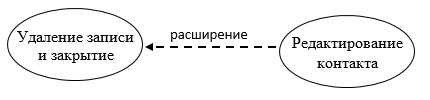
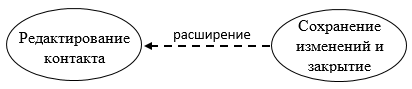
Create flow of events

Changed region(s): [[0.0, 0.0674, 0.9903, 0.9213], [0.7282, 0.6067, 0.9029, 0.6966], [0.0583, 0.7416, 0.2621, 0.8315]]

diff --git a/Documents/System project/UseCase/Flow of Events.md b/Documents/System project/UseCase/Flow of Events.md
@@ -1,0 +1,287 @@
+# Поток событий
+---
+
+# Содержание
+1 [Актёры](#actors)  
+2 [Варианты использования](#use_case)  
+2.1 [Добавление контакта](#add_kontakt)  
+2.2 [Заполнение данных в формы](#filling_forms)  
+2.3 [Сохранение и закрытие](#Save_and_close)  
+2.4 [Отмена и закрытие](#Cancellation_and_closure)  
+2.5 [Редактирование контакта](#Editing_a_contact)</br>
+2.6 [Редактирование данных в формах](#Editing_data_in_forms)  
+2.7 [Сохранение изменений и закрытие](#Save_changes_and_close)  
+2.8 [Отмена изменений и закрытие](#Cancel_changes_and_close)  
+2.9 [Удаление записи и закрытие](#Delete_entry_and_close)  
+2.10 [Открытие отчёта](#Opening_a_report)  
+2.11 [Осуществление звонка](#Making_a_call)</br>
+2.12 [Поиск, сортировка и фильтрация](#Search,_sort_and_filter)  
+2.13 [Использование поисковой строки](#Using_the_search_bar)  
+2.14 [Сброс поиска](#Reset_search)  
+2.15 [Критерий поиска по полям БД](#Search_criterion_for_database_fields)  
+2.16 [Критерий поиска по совпадению](#Matching_Criteria)  
+2.17 [Сортировка по алфавиту](#Sort_alphabetically)</br>
+2.18 [Переход по найденным контактам](#Navigation_by_found_contacts)        
+
+<a name="actors"/>
+
+# 1 Актёры
+
+| Актёр | Описание |
+|:--|:--|
+| Пользователь | Человек, использующий телефонный справочник |
+
+<a name="use_case"/>
+
+# 2 Варианты использования
+
+<a name="add_kontakt"/>
+
+## 2.1 Добавление контакта
+**Описание.** Вариант использования "Добавление контакта" позволяет пользователю добавить контакт в телефонный справочник.
+
+**Основной поток.**
+1. Вариант использования начинается, когда пользователь нажимает на кнопку "Добавить контакт" на главной форме приложения;
+2. Приложение отображает окно "Добавление контакта", которое предлагает пользователю следующий функционал: заполнить данными пустые поля для ввода данных нового контакта по категориям; сохранить введённые данные в базу данных и вернуться на главную форму; отменить ввод данных и вернуться на главную форму.
+3. Пользователь вводит данные в соответствующие пустые поля по категориям.
+4. Пользователь нажимает на кнопку "Сохранить и закрыть".
+5. Приложение сохраняет новый контакт в базу данных.
+6. Приложение закрывает окно "Добавление контакта" и производит возврат на главную форму.
+7. Вариант использования завершается.
+
+**Дополнительная информация.** Пользователь имеет возможность отменить действие до нажатия кнопки "Сохранить и закрыть", при помощи нажатия конпки "Отменить и закрыть".
+
+<a name="filling_forms"/>
+
+## 2.2 Заполнение данных в формы
+**Описание.** Вариант использования "Заполениение данных в формы" позволяет пользователю заполнить информацией о новом контакте пустые формы по категориям.
+
+**Предусловие** Пользователь нажал на кнопку "Добавить контакт" на главной форме приложения.
+
+**Основной поток.**
+1. Вариант использования начинается, когда пользователь нажимает на кнопку "Добавить контакт" на главной форме приложения;
+2. Пользователь заполняет информацией о новом контакте пустые формы по категориям.
+3. Вариант использования завершается.
+
+**Дополнительная информация.** 
+Необязательно сразу заполнять все поля, в любом случае существует возможность их дозаполнить при редактировании данных о контакте.
+
+<a name="Save_and_close"/>
+
+## 2.3 Сохранение и закрытие 
+**Описание.** Вариант использования "Сохранение и закрытие" позволяет пользователю сохранить все данные в полях для ввода данных нового контакта (новой записи) по категориям, в соответствующих полях базы данных, с последующим закрытием окна "Добавление контакта".
+
+**Предусловие** Пользователь ввёл данные в поля для ввода данных нового контакта (новой записи) по категориям.
+
+**Основной поток.**
+1. Если пользователь нажал на кнопку "Сохранить и закрыть", то начинается вариант использования;
+2. При нажатии данной кнопки, все данные в полях для ввода данных нового контакта (новой записи) по категориям будут сохранены в соответствующих полях базы данных; 
+3. Окно "Добавление контакта" будет закрыто;
+4. Вариант использования завершается.    
+
+<a name="Cancellation_and_closure"/>
+
+## 2.4 Отмена и закрытие
+**Описание.** Вариант использования "Отмена и закрытие" позволяет пользователю отменить сохранение данных нового контакта (новой записи) по категориям в соответствующие поля базы данных, с последующим закрытием окна "Добавление контакта".
+
+**Предусловие** Пользователь ввёл или не ввёл данные в поля для ввода данных нового контакта (новой записи) по категориям и передумал их сохранять.
+
+**Основной поток.**
+1. Если пользователь нажал на кнопку "Отменить и закрыть", то начинается вариант использования;
+2. При нажатии данной кнопки, все данные в полях для ввода данных нового контакта (новой записи) по категориям не будут сохранены в соответствующих полях базы данных; 
+3. Окно "Добавление контакта" будет закрыто;
+4. Вариант использования завершается.
+
+<a name="Editing_a_contact"/>
+
+## 2.5 Редактирование контакта
+**Описание.** Вариант использования "Редактирование контакта" позволяет отредактировать содержимое полей активной записи.  
+
+**Основной поток.**
+1. Вариант использования начинается, когда пользователь нажимает на кнопку "Редактировать" на главной форме приложения;
+2. Приложение отображает окно "Редактирование контакта", которое предлагает пользователю следующий функционал: редактировать данные в формах по соответствующим категориям; сохранить изменения в базу данных и закрыть окно "Редактирование контакта"; отменить изменения и закрыть окно "Редактирование контакта"; удаление активной записи из базы данных и закрыть окно "Редактирование контакта".
+3. Пользователь редактирует содержимое полей активной записи по категориям.
+4. Пользователь нажимает на кнопку "Сохранить и закрыть".
+5. Приложение сохраняет отредактированное содержимое полей активной записи по категориям в базу данных.
+6. Приложение закрывает окно "Редактирование контакта" и производит возврат на главную форму.
+7. Вариант использования завершается.
+
+**Дополнительная информация.** Пользователь имеет возможность отменить действие до нажатия кнопки "Сохранить и закрыть", при помощи нажатия кнопки "Отменить и закрыть".В случае если пользователь захочет удалить все данные активного контакта (активной записи) из базы данных, выполнится альтернативный поток А1. 
+
+**Альтернативный поток А1**
+1. Пользователь нажимает на кнопку "Удалить запись и закрыть".
+2. Приложение удаляет все данные активного контакта (активной записи) из базы данных.
+3. Приложение закрывает окно "Редактирование контакта" и производит возврат на главную форму.
+4. Вариант использования завершается.
+
+<a name="Editing_data_in_forms"/>
+
+## 2.6 Редактирование данных в формах
+**Описание.** Вариант использования "Редактирование данных в формах" позволяет пользователю редактировать данные активного контакта (активной записи) в соответствующих формах по категориям.
+
+**Предусловие** Пользователь нажал на кнопку "Редактировать" на главной форме приложения.
+
+**Основной поток.**
+1. Вариант использования начинается, когда пользователь нажимает на кнопку "Редактировать" на главной форме приложения;
+2. Пользователь редактирует данные активного контакта (активной записи) в соответствующих формах по категориям.
+3. Вариант использования завершается.
+
+<a name="Save_changes_and_close"/>
+
+## 2.7 Сохранение изменений и закрытие
+**Описание.** Вариант использования "Сохранение изменений и закрытие" позволяет пользователю сохранить измененения данных активного контакта (активной записи) в соответствующих полях по категориям, в соответствующих полях базы данных, с последующим закрытием окна "Редактирование контакта".
+
+**Предусловие** Пользователь внёс изменения в данные активного контакта (активной записи) в соответствующих полях по категориям.
+
+**Основной поток.**
+1. Если пользователь нажал на кнопку "Сохранить и закрыть", то начинается вариант использования;
+2. При нажатии данной кнопки, все изменнения данных активного контакта (активной записи) в соответствующих полях по категориям будут сохранены в соответствующих полях базы данных; 
+3. Окно "Редактирование контакта" будет закрыто;
+4. Вариант использования завершается.     
+
+<a name="Cancel_changes_and_close"/>
+
+## 2.8 Отмена изменений и закрытие
+**Описание.** Вариант использования "Отмена и закрытие" позволяет пользователю отменить все изменнения данных активного контакта (активной записи) в соответствующих полях по категориям, с последующим закрытием окна "Редактирование контакта".
+
+**Предусловие** Пользователь внёс или не внёс изменения в данные активного контакта (активной записи) в соответствующих полях по категориям.
+
+**Основной поток.**
+1. Если пользователь нажал на кнопку "Отменить и закрыть", то начинается вариант использования;
+2. При нажатии данной кнопки, все изменнения данных активного контакта (активной записи) в соответствующих полях по категориям не будут сохранены в соответствующих полях базы данных; 
+3. Окно "Редакироваание контакта" будет закрыто;
+4. Вариант использования завершается.
+
+<a name="Delete_entry_and_close"/>
+
+## 2.9 Удаление записи и закрытие
+**Описание.** Вариант использования "Удаление записи и закрытие" позволяет пользователю удалить все данные активного контакта (активной записи) из базы данных, с последующим закрытием окна "Редактирование контакта".
+
+**Предусловие** Пользователь внёс или не внёс изменения в данные активного контакта (активной записи) в соответствующих полях по категориям.
+
+**Основной поток.**
+1. Если пользователь нажал на кнопку "Удалить запись и закрыть", то начинается вариант использования;
+2. При нажатии данной кнопки, все данные активного контакта (активной записи) будут удалены из базы данных. 
+3. Окно "Редакироваание контакта" будет закрыто;
+4. Вариант использования завершается.
+
+<a name="Opening_a_report"/>
+
+## 2.10 Открытие отчёта
+**Описание.** Вариант использования "Открытие отчёта" позволяет пользователю создать отчёт.
+
+**Предусловие** Наличие активного контакта (активной записи) в телефонном справочнике.
+
+**Основной поток.**
+1. Вариант использования начинается, когда пользователь нажимает на кнопку "Открыть отчёт" на главной форме приложения;
+2. При нажатии на данную кнопку, в шаблоне программы для работы с электронными таблицами Microsoft Excel, будет создан отчёт, где каждое поле соответствует полю активной записи на основании которой был создан данный отчёт.
+3. Вариант использования завершается.  
+
+<a name="Making_a_call"/>
+
+## 2.11 Осуществление звонка
+**Описание.** Вариант использования "Осуществление звонка" позволяет пользователю осуществить тональный набор одного из номеров телефона активного контакта (мобильный телефон, домашний телефон, рабочий телефон).
+
+**Предусловие** Наличие активного контакта (активной записи) в телефонном справочнике.
+
+**Основной поток.**
+1. Вариант использования начинается тогда, когда пользователь нажимает на кнопку с соответствующей иконкой "Тональной набор" напротив нужного телефонного номера, на панели "Блок данных о контакте", главной формы приложения. Если в поле соответствующего телефонного номера содержится недопустимый для набора символ, то выполняется поток ошибки E1.
+2. Перевести телефон в тональный режим.
+3. Поднести телефон к динамику устройста.
+4. Нажать кнопкку "ОК" в появившемся модальном окне. 
+5. Вариант использования завершается. 
+
+**Поток ошибки E1.**
+1. В случае ошибки набора телефонного номера, будет выведено соответствующие модальное окно, содержащее информацию об обшике.
+2. Вариант использования завершается.
+
+<a name="Search,_sort_and_filter"/>
+
+## 2.12 Поиск, сортировка и фильтрация
+**Описание.** Вариант использования "Поиск, сортировка и фильтрация" позволяет пользователю найти, отсортировать и отфильтровать контакты в панели "Список контактов". 
+
+**Предусловие** Наличие контактов в телефонном справочнике. 
+
+**Основной поток.**
+1. Вариант использования начинается, когда пользователь начинает взаимодействовать с панелью "Глобальный поиск" на главной форме приложения;
+2. Данная панель предлагает пользователю следующий функционал: воспользоваться поисковой строкой; сбросить результаты поиска; выбрать критерий поиска по полям БД; выбрать критерий поиска по совпадению; отсортировать контакты по алфавиту; осуществить переход по найденным контактам.
+3. Пользователь взаимодействует с элементами панели "Глобальный поиск" и получает результат в пенели "Список контактов".
+4. Вариант использования завершается.
+**Дополнительная информация.** Пользователь имеет возможность отменить результат поиска при помощи нажатия кнопки очистки содержимого поисковой строки. 
+
+<a name="Using_the_search_bar"/>
+
+## 2.13 Использование поисковой строки
+**Описание.** Вариант использования "Использование поисковой строки" позволяет пользователю найти нужные контакты с помощью контекстного поиска.
+
+**Предусловие** Наличие контактов в телефонном справочнике.
+
+**Основной поток.**
+1. Вариант использования начинается, когда пользователь активирует поисковую строку.
+2. После активации поисковой строки, пользователь вводит свой запрос.
+3. При изменении содержимого в поисковой строке, автоматически появляется результат глобального поиска на панели "Список контактов".
+4. Вариант использования завершается.
+
+<a name="Reset_search"/>
+
+## 2.14 Сброс поиска
+**Описание.** Пользователь имеет возможность отменить результат поиска при помощи нажатия кнопки очистки содержимого поисковой строки.
+
+**Предусловие** Наличие содержимого в поисковой строке.
+
+**Основной поток.**
+1. Вариант использования начинается, когда пользователь нажимает на кнопку очистки содержимого поисковой строки.
+2. При нажатии на данную кнопку, содержимое поисковой строки очищается и автоматически на панели "Список контактов" отображаются все контакты из базы данных.
+3. Вариант использования завершается.  
+
+<a name="Search_criterion_for_database_fields"/>
+
+## 2.15 Критерий поиска по полям БД
+**Описание.** Вариант использования "Критерий поиска по полям БД" позволяет пользователю выбрать критерий по которому вводить свой запрос в строку поиска.
+
+**Предусловие** Наличие контактов в телефонном справочнике.
+
+**Основной поток.**
+1. Вариант использования начинается, когда пользователь активирует переключатель критерия поиска по полям базы данных.
+2. После активации переключателя критерия поиска по полям базы данных, пользователь выбирает критерий поиска по полям базы данных.
+3. При выборе критерия поиска по полям базы данных, автоматически появляется результат на панели "Список контактов".
+4. Вариант использования завершается.
+
+<a name="Matching_Criteria"/>
+
+## 2.16 Критерий поиска по совпадению
+**Описание.** Вариант использования "Критерий поиска по совпадению" позволяет пользователю выбрать критерий по которому вводить свой запрос в строку поиска.
+
+**Предусловие** Наличие контактов в телефонном справочнике.
+
+**Основной поток.**
+1. Вариант использования начинается тогда, когда пользователь активирует переключатель критерия поиска по совпадению.
+2. После активации переключателя критерия поиска совпадению, пользователь выбирает критерий поиска по совпадению.
+3. При выборе критерия поиска по совпадению, автоматически появляется результат на панели "Список контактов".
+4. Вариант использования завершается.
+
+<a name="Sort_alphabetically"/>
+
+## 2.17 Сортировка по алфавиту
+**Описание.** Вариант использования "Сортировка по алфавиту" позволяет пользователю выбрать отсортировать список контактов по полю базы данных "Фамилия" (от А до Я - по алфавиту; от Я до А - в обратном алфавитном порядке).
+
+**Предусловие** Наличие контактов в телефонном справочнике.
+
+**Основной поток.**
+1. Вариант использования начинается тогда, когда пользователь активирует переключатель сортировки по алфавиту.
+2. После активации переключателя сортировки по алфавиту, пользователь выбирает в каком алфавитном порядке осуществить сортировку контактов.
+3. При выборе порядка, автоматически появляется результат на панели "Список контактов".
+4. Вариант использования завершается.
+
+<a name="Navigation_by_found_contacts"/>
+
+## 2.18 Переход по найденным контактам
+**Описание.** Вариант использования "Переход по найденным контактам" позволяет пользователю получить возможность перехода по списку контактов при помощи соответствующих кнопок.По умолчанию отображена первая запись в списке контактов.
+
+**Предусловие** Наличие контактов в телефонном справочнике.
+
+**Основной поток.**
+1. Вариант использования начинается тогда, когда пользователь выберет нужную кнопку перехода по найденным контактам.
+2. После нажатия на выбранную кнопку, осуществляется переход по списку контактов в соответствии с функционалом кнопки перехода.
+3. Выбранный контакт (запись) становится активной. Данные этого контакта отображаются в соответствующих полях на панели "Блок данных о контакте".
+4. Вариант использования завершается.
